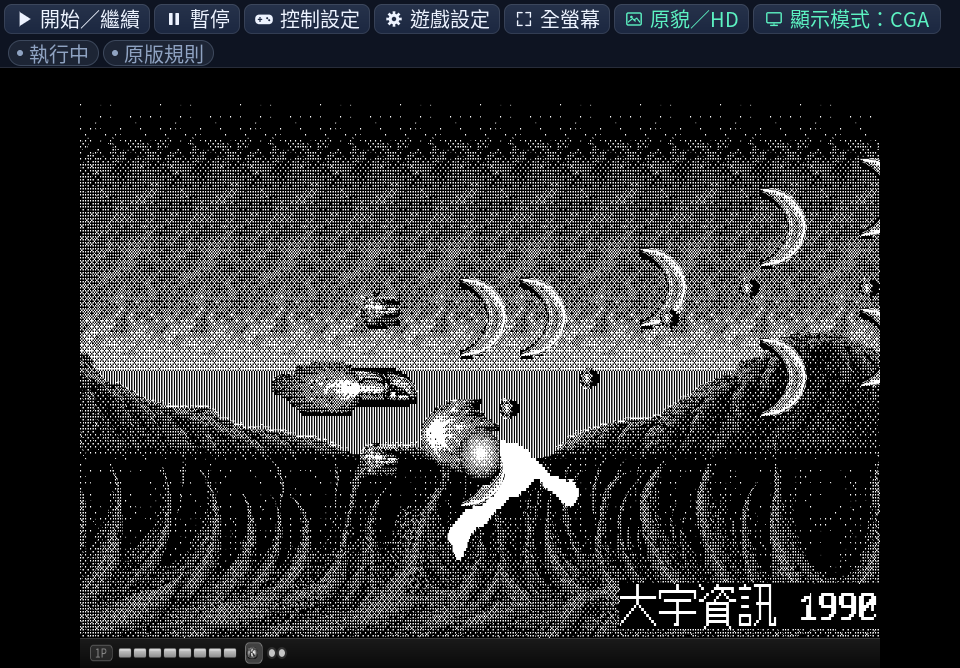
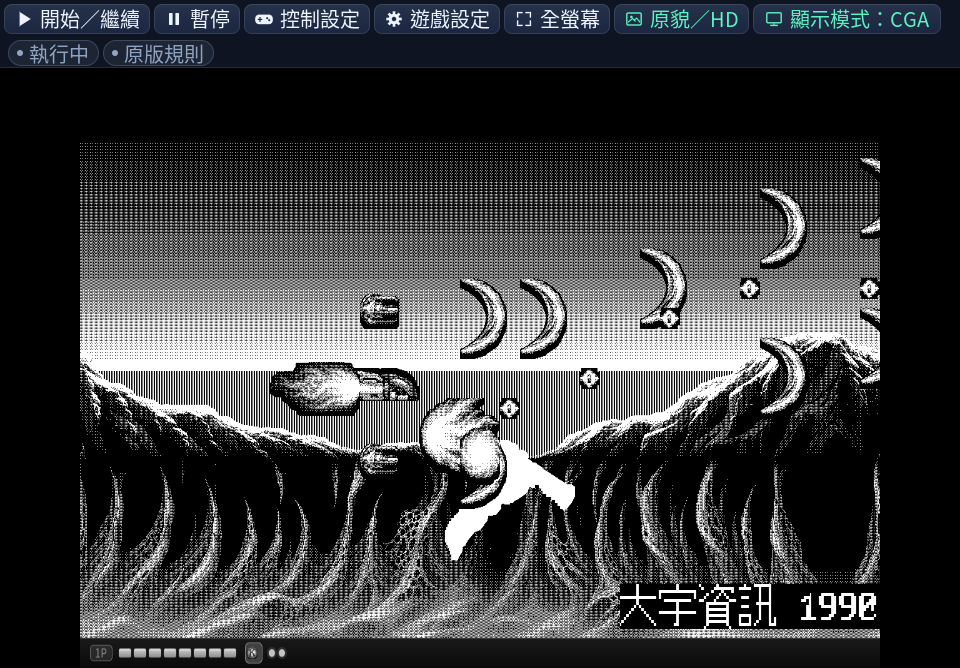
v1.0.1：單色 HD 為 Codex 重繪版，README 截圖與文件跟上
- README、規格 004、CONTEXT 改指 v.1.0.1-20261106；CGA 與 Android 截圖換成 v1.0.1 發行包的畫面。
- WORKLIST 移除單色 HD 項；WORKLOG 記 m2 全量重繪、替換、打包與影片重錄。

Changed region(s): [[0.0625, 0.2096, 0.9375, 0.9581]]

diff --git a/WORKLOG.md b/WORKLOG.md
@@ -401,6 +401,18 @@ Android 煙霧測試第二次啟動的失敗：
 
 執行邊界：試稿代理在主機跑過三次 `python3 -c`、一次直接執行 `tools/hd_mono_root.py`（缺參數立即結束）；兩個 docker 探測指令沒帶 `-u`、記憶體、CPU、log 輪替等旗標；截圖時兩個容器同時各用 4 核。
 
+### 單色 HD m2 全量重繪與 v1.0.1（2026-11-06）
+
+- 使用者從試稿選 m2。全量批次 `full-mono-m2-r1`（89 張表）與 `-r2`（3 張重畫），Codex 93 次，失敗 0。重畫的原因：磁片提示字母與「disk A」明暗畫反、`SHT5` END 字母外框與本體顛倒、閃電道具太灰。另一次重呼叫是代理把畫布設成 1024×1024，Codex 的方形輸出是 1254×1254，不能用。
+- 文字核對：ACT 卡、選單字樣、磁片提示、道具球 L、B、K、S、開場 RS-2 都正確。單色原版第 85 項就是「2 PLAYER」，彩色版才是「2 PLAYERS」。END 只在表層級核對。
+- 使用者看過對照後同意替換。舊的推導版備份到 `workspace/hd/mono-derived-v1/`，候選複製進 `assets/mono`，`hd_variants.py` 加上看到 `mono-manifest.json` 就略過單色的保護，重跑確認沒有蓋回。
+- 替換後 `verify` 602 項（含 1,526 張的尺寸稽核）、`play-test` 全過。
+- 打包第一次在 payload 步驟中止：`mono-manifest.json` 沒有歸類。歸為不帶的紀錄檔，靜態驗收也禁止它出現。同一輪的 Android APK 是從中止的 payload 建的，作廢重建。
+- v1.0.1（`v.1.0.1-20261106`）：靜態 72 項、資料子集 8 項、Linux 28 項、Windows 22 項，失敗 0，包內單色 1,526 張。Android 從完整 payload 重建，煙霧測試通過，ANR 0 筆。Android 建置快取先前已刪，這次從頭建，在 `--network none` 下成功。
+- 推廣影片的錄影在結案清理時刪了，用 v1.0.1 的 AppImage 全部重錄再合成，72 秒，CGA、MGA 段落是新的單色 HD，片尾是 v1.0.1。
+- README 的 CGA 截圖與 Android 截圖換成 v1.0.1 的；其餘桌面截圖和 v1.0.0 逐位元組相同。
+- v1.0.0 的發行目錄保留，沒有刪。
+
 ### workspace/dosgolem 的復原
 
 - `workspace/dosgolem` 的復原：照 `tools/dosgolem-patches/README.md` 從 `~/cht/dosgolem` 的 f79eab6 複製並套 8 個補丁。刪除前在暫存目錄重做一次，原始碼和刪掉的副本逐檔相同（不含 `workplace/`）。`workplace/` 的 Go 模組快取要重新下載，需要網路。

diff --git a/CONTEXT.md b/CONTEXT.md
@@ -14,7 +14,7 @@
 | HD | 全部 1,337 個圖庫索引、201 張遮罩、第三關地圖、326 張調色盤變體、1,526 張單色版都有輸出，單色版是 Codex 的 m2 重繪。成品在 `workspace/hd/assets/`，說明見 `docs/hd/codex-handoff.md`。全流程接入無缺圖，四關目視過，配色與第一關接縫已修 |
 | remake | 從標題玩到片尾：規格 [001](docs/spec/001-rust-first-stage.md)、[002](docs/spec/002-full-game.md)、[003](docs/spec/003-audio.md) 都是 CONFORMED。E 模式的模擬、畫面與音樂暫存器和原版逐筆相同。核心是有型別的重寫（規格 [004](docs/spec/004-rewrite-and-delivery.md)）。CGA、MGA 可在遊戲中切換，有 HD（規格 [006](docs/spec/006-display-modes.md) CONFORMED） |
 | 強化選項 | 規格 [005](docs/spec/005-enhanced-mode.md) 十二個選項都已實作，CONFORMED。手感、平衡與難度沒有真人驗證 |
-| 發行包 | v1.0.0（`v.1.0.0-20261106`）：Linux AppImage、Windows zip、macOS universal、Android APK 與 72 秒推廣影片，放 `dist-all/v.1.0.0-20261106/`，只留本機。macOS 與 Android 沒有實機跑過 |
+| 發行包 | v1.0.1（`v.1.0.1-20261106`）：Linux AppImage、Windows zip、macOS universal、Android APK 與 72 秒推廣影片，放 `dist-all/v.1.0.1-20261106/`，只留本機。和 v1.0.0 的差別是單色 HD 換成 Codex 重繪版。macOS 與 Android 沒有實機跑過 |
 | 版控 | 私人 repo `wicanr2/rs2-remake`，推送前跑 `tools/leak_check.py`。`docs/images/` 有含原版美術的對照圖，公開前要清歷史 |
 | LICENSE | RRSAL-1.0 |
 

diff --git a/README.md b/README.md
@@ -209,13 +209,13 @@ tools/rust.sh play              # 有 workspace/hd/assets 就用 HD，加 --no-h
 ### 發行包
 
 ```sh
-bash tools/package/build_all.sh v.1.0.0-YYYYMMDD
-ANDROID_SRC=$PWD tools/package/android_apk.sh v.1.0.0-YYYYMMDD arm64-v8a x86_64
+bash tools/package/build_all.sh v.1.0.1-YYYYMMDD
+ANDROID_SRC=$PWD tools/package/android_apk.sh v.1.0.1-YYYYMMDD arm64-v8a x86_64
 ```
 
-成品放在 `dist-all/`，內含原版資料與 HD 圖，只供自己保存，不上傳。步驟與驗證見[規格 004](docs/spec/004-rewrite-and-delivery.md)。目前的版本是 v1.0.0（`v.1.0.0-20261106`），另有一支 72 秒的推廣影片，由 `tools/promo/make.sh` 產生，同樣只留本機。
+成品放在 `dist-all/`，內含原版資料與 HD 圖，只供自己保存，不上傳。步驟與驗證見[規格 004](docs/spec/004-rewrite-and-delivery.md)。目前的版本是 v1.0.1（`v.1.0.1-20261106`），單色 HD 換成 Codex 重繪版；另有一支 72 秒的推廣影片，由 `tools/promo/make.sh` 產生，同樣只留本機。
 
-下面的畫面都取自 v.1.0.0-20261106 的發行包：桌面版由 `tools/package/readme_shots.sh` 在容器裡執行 AppImage 截取，Android 版取自模擬器的煙霧測試（`tools/package/android_smoke.sh`）。
+下面的畫面都取自 v.1.0.1-20261106 的發行包：桌面版由 `tools/package/readme_shots.sh` 在容器裡執行 AppImage 截取，Android 版取自模擬器的煙霧測試（`tools/package/android_smoke.sh`）。
 
 | | |
 |---|---|

diff --git a/WORKLIST.md b/WORKLIST.md
@@ -39,7 +39,6 @@
 
 | 項目 | 完成條件 |
 |---|---|
-| 單色 HD 送 Codex 重繪 | 使用者 2026-11-06 選方案 D。先出畫風試稿給使用者定案，再全量重繪、接入、驗收、重新打包 |
 | 真實桌面的視窗與音效裝置 | 只在 Xvfb 與 SDL 的 disk 音效驅動驗過，真實桌面、GPU 繪圖器、F11 全螢幕、實際喇叭都沒驗 |
 | macOS、Android 實機 | macOS 只有靜態驗收，Android 只在模擬器跑過，觸控分離鈕與實體手把都沒驗。Android 第二次啟動曾在高負載下 ANR 一次，重跑 0 筆，真因未定 |
 | 手感與強化選項的平衡 | 沒有真人驗證，使用者決定不做。波動砲、Force、AI、頭目新招式、寬戰場的難度只有測試數字 |

diff --git a/docs/spec/004-rewrite-and-delivery.md b/docs/spec/004-rewrite-and-delivery.md
@@ -102,7 +102,7 @@
 | macOS | universal `.app` 的 Zip | `dosgolem-rust-cross`（osxcross、SDK 15.5） | `lipo`、Mach-O 靜態檢查。沒有 Mac，不能宣稱實機驗過 |
 | Android | APK | NDK 27.2（`rich2-go-android`），另裝 Rust 的 Android 目標，SDL 的 `android-project` 在 `sdl2-sys` 內 | `rich2-android-emulator` 跑實際產物 |
 
-v1.0.0（`v.1.0.0-20261106`）的驗證結果（`dist-all/v.1.0.0-20261106/verify/` 與 `workspace/pkg/android/smoke/`）：
+v1.0.1（`v.1.0.1-20261106`）的驗證結果（`dist-all/v.1.0.1-20261106/verify/` 與 `workspace/pkg/android/smoke/`），v1.0.0 的數字相同：
 
 | 平台 | 結果 |
 |---|---|
